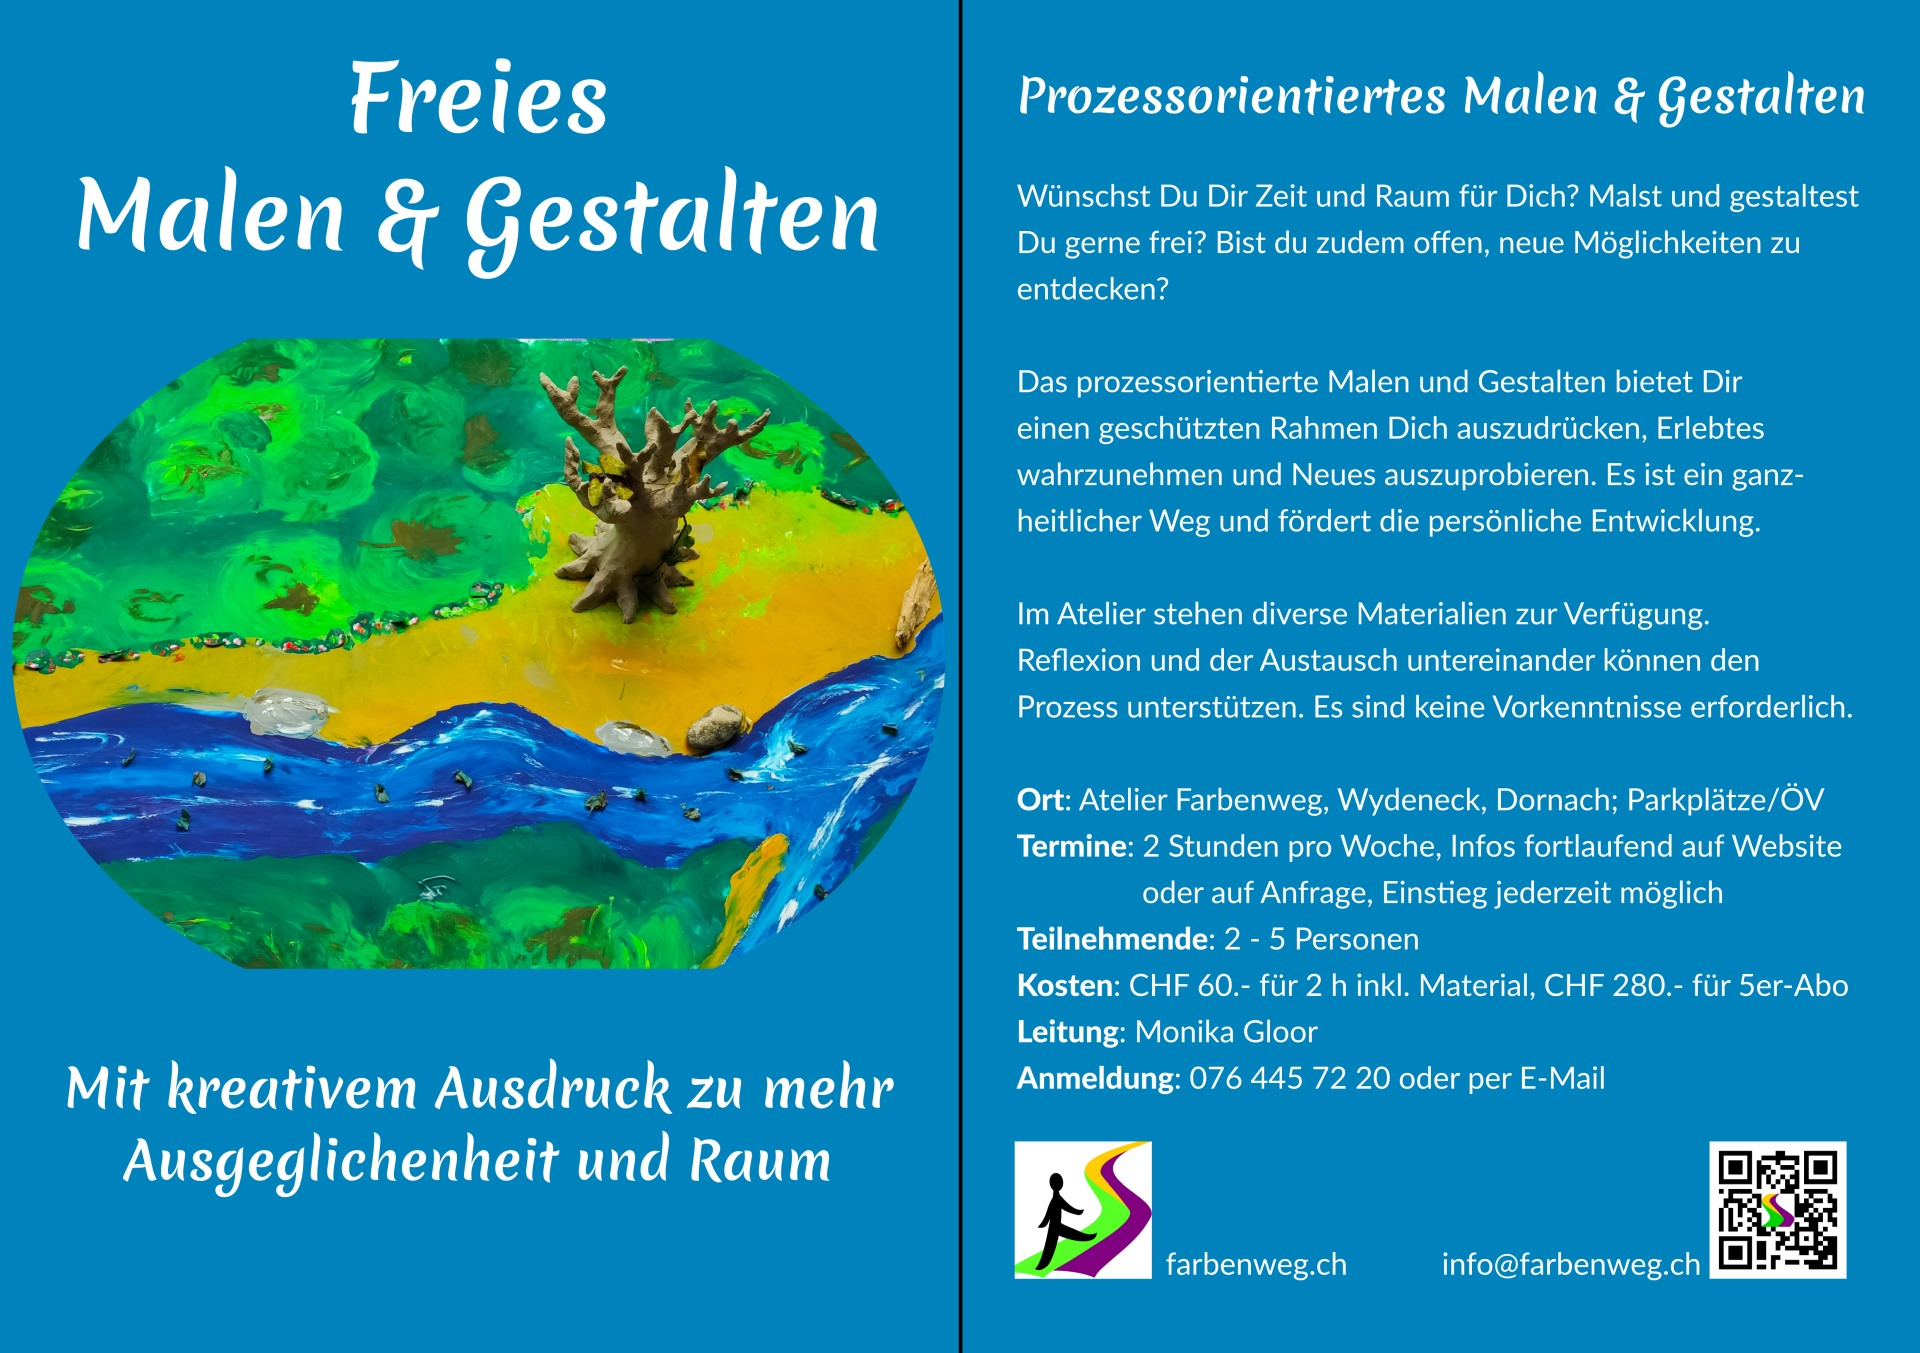
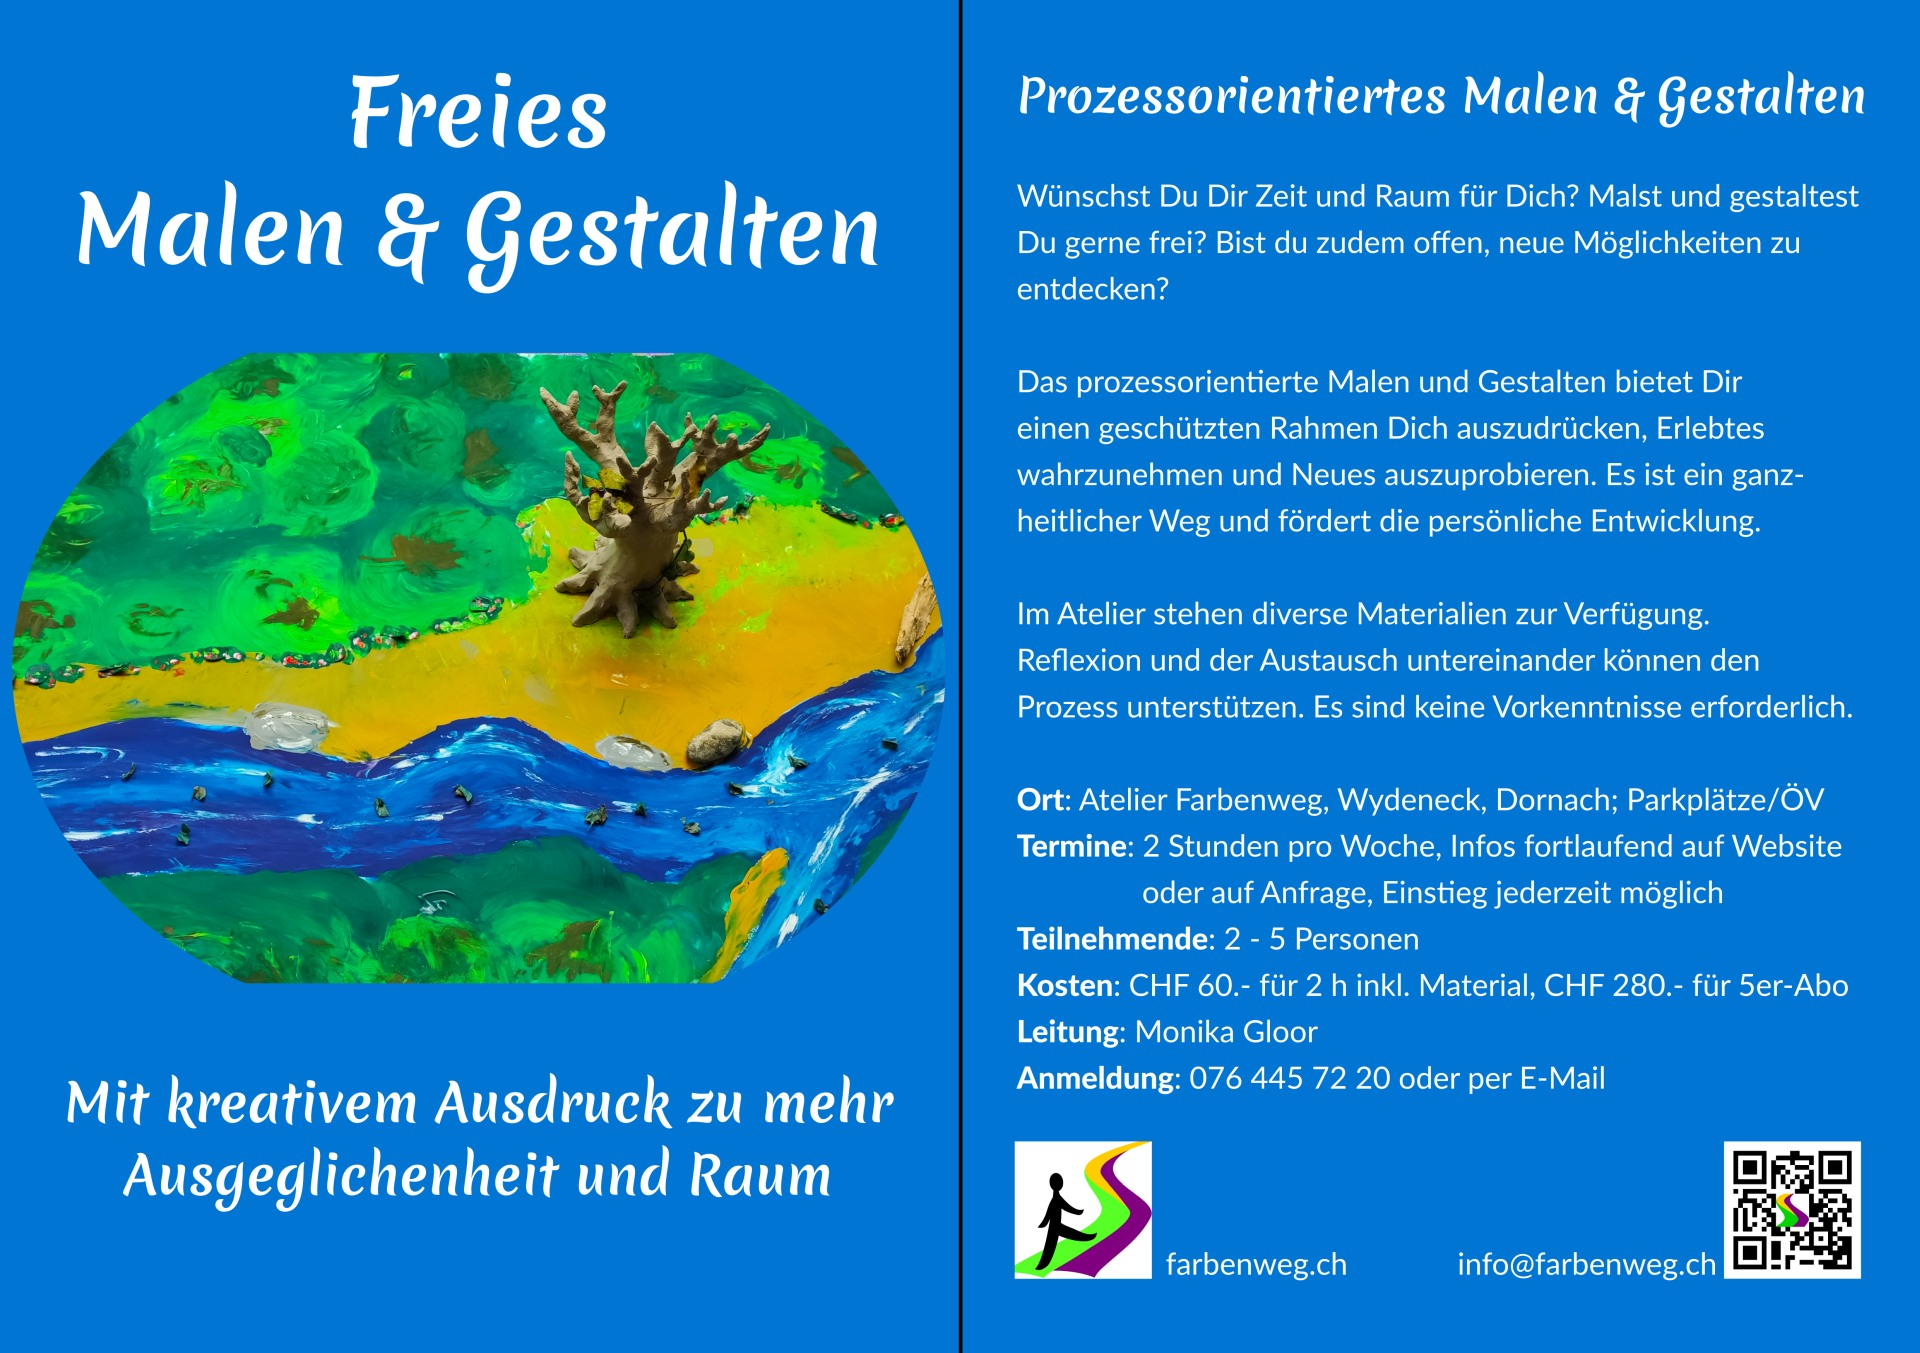
Aenderungen

diff --git a/freies-malen-und-gestalten/index.html b/freies-malen-und-gestalten/index.html
@@ -170,7 +170,7 @@ Prozess unterstützen.</p>
 
 <p>Es sind keine Vorkenntnisse erforderlich. Der Einstieg ist jederzeit möglich. Der Kurs kann fortlaufend oder sporadisch besucht werden.</p>
 
-<h3 id="font-color-08b-kursdetails-font"><font color=#08b> Kursdetails </font></h3>
+<h3 id="font-color-07d-kursdetails-font"><font color=#07d> Kursdetails </font></h3>
 
 <ul>
 <li><strong>Inhalt</strong>: Freies Malen und Gestalten</li>
@@ -184,7 +184,7 @@ Prozess unterstützen.</p>
 <li><strong>Anmeldung</strong>: <a href="/kontakt">Hier klicken</a></li>
 </ul>
 
-<h3 id="font-color-08b-flyer-font"><font color=#08b> Flyer </font></h3>
+<h3 id="font-color-07d-flyer-font"><font color=#07d> Flyer </font></h3>
 
 <p>Schicke den Flyer gerne an Interessierte weiter oder teile den Link zum Kurs.</p>
 
@@ -192,7 +192,7 @@ Prozess unterstützen.</p>
 <img src="/images/2021/Flyer_Freies_Malen_und_Gestalten.jpg"
 style="width: 60%; height: auto"></a></p>
 
-<h3 id="font-color-08b-schutzkonzept-font"><font color=#08b> Schutzkonzept </font></h3>
+<h3 id="font-color-07d-schutzkonzept-font"><font color=#07d> Schutzkonzept </font></h3>
 
 <p>Ich freue mich, dich im Atelier Farbenweg begrüßen zu dürfen. Aufgrund der aktuellen Situation rund um Covid-19 halten wir uns an dieses Schutzkonzept.
 <a href="/schutzkonzept">Weiter lesen&hellip;</a></p>
